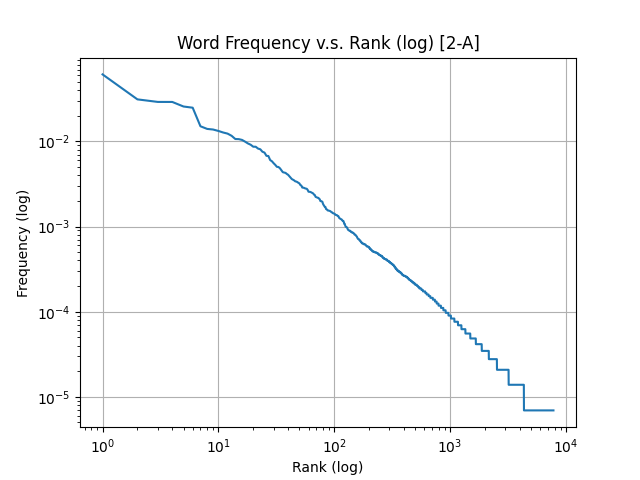
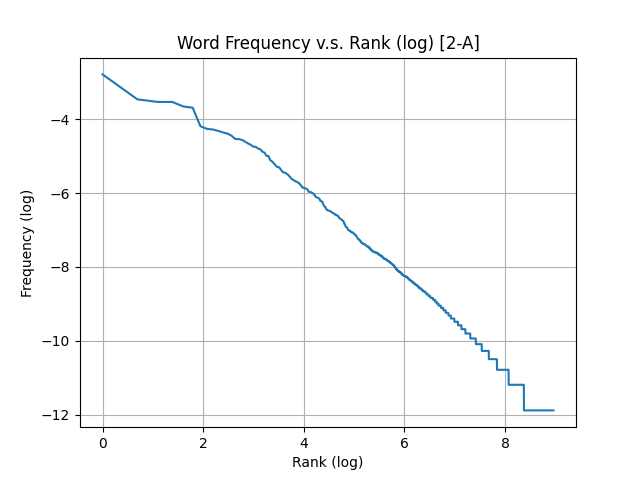
optimize bpe

diff --git a/A1/codes/obj2_tokenizer.py b/A1/codes/obj2_tokenizer.py
@@ -24,14 +24,11 @@ def draw_plot(rank, freq, imgname):
 
     ax.set(xlabel='Rank (log)', ylabel='Frequency (log)',
         title=f"Word Frequency v.s. Rank (log) [{imgname}]")
-    ax.set_xscale('log')
-    ax.set_yscale('log')
     ax.grid()
     fig.savefig(f"../plots/{imgname}")
-    plt.xscale('log')
-    plt.yscale('log')
     plt.show()
 
+import math
 import re
 
 class Tokenizer:
@@ -165,7 +162,19 @@ class Tokenizer:
             pair = max(pairs, key=lambda x: x[1])[0]
             corpus = self.merge_pair(corpus, pair)
             self.bpe_vocab.append(pair)
-        return self.bpe_vocab
+        return self.bpe_tokenize_book(corpus)
+    
+    def bpe_tokenize_book(self, corpus):
+        text = self.text.lower() if self.lowercase else self.text
+        self.bpe_tokens = []
+        words = [i + '_' for i in text.split()]
+        mapping = {}
+        for c in corpus:
+            c_split = c.split()
+            mapping[''.join(c_split)] = c_split
+        for w in words:
+            self.bpe_tokens.extend(mapping[w])
+        return self.bpe_tokens
     
     def bpe_tokenize(self, sentence: str):
         if self.lowercase:
@@ -218,7 +227,7 @@ class Tokenizer:
         '''
         # TODO Modify the code here
         if self.bpe:
-            tokens = self.bpe_vocab if len(self.bpe_vocab) > 0 else self.tokenize()
+            tokens = self.bpe_tokens if len(self.bpe_tokens) > 0 else self.tokenize()
             title = '2-B'
         else:
             tokens = self.tokenize()
@@ -231,8 +240,8 @@ class Tokenizer:
         frequencies = list(count.values())
         total = sum(frequencies)
         frequencies.sort(reverse=True)
-        r = list(range(1, len(frequencies) + 1))
-        f = [i / total for i in frequencies]
+        r = [math.log(i) for i in range(1, len(frequencies) + 1)]
+        f = [math.log(i / total) for i in frequencies]
         draw_plot(r, f, title)
 
     
